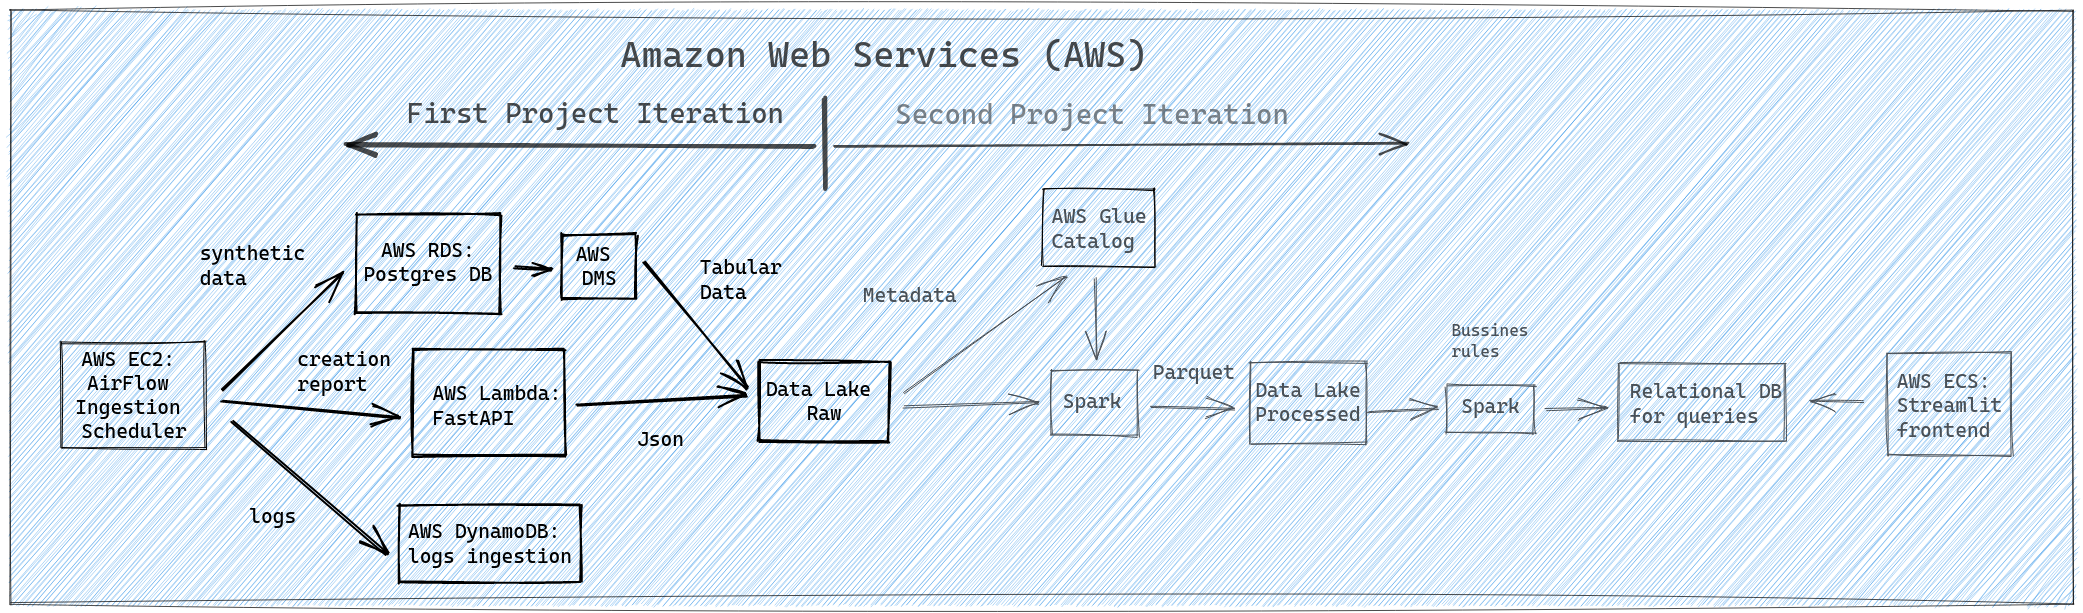
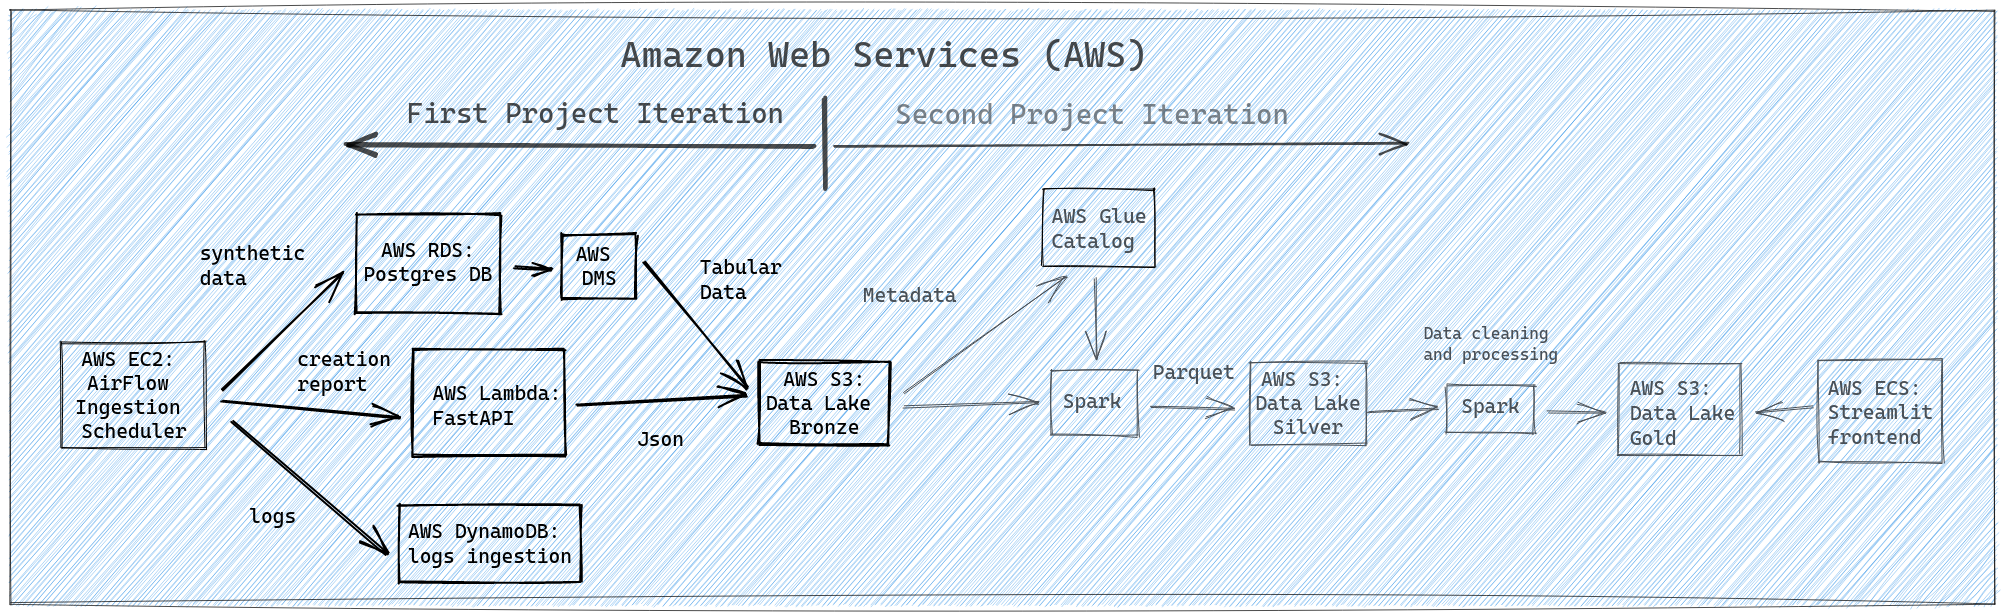
README and workflow image updated

diff --git a/README.md b/README.md
@@ -1,4 +1,109 @@
-UNDER CONSTRUCTION!!! 🛠👷🏼🧰⚒
+# **SITUATION**
 
-This repository will contain the code for a data engineering project regarding synthetic data ingestion...
+As a data scientist, I realized that it is fundamental to understand not only the data scientist tools but also the data engineering ones to deliver more value and more robust solutions to my projects. 
 
+So, my main idea with this project was to dive into data engineering fundamentals in both a theoretical and practical way.
+
+To maximize my understanding of data engineering, I created synthetic data ingestion in the AWS environment. The first iteration of this project was mainly concerned with data ingestion and gave me a first immersive contact with data engineering tools; the second iteration will improve the solutions of the first cycle and will complete the architecture by delivering an analytical dashboard.
+
+
+# **TASK**
+
+The idea is to create synthetic data regarding customer behaviour for two groups of customers: control and treatment. We would generate this behaviour with statistical distributions (e.g. Poisson and Gamma distributions) and would ingest both the created customer behaviour and the statistical distribution params in the architecture. The data would flow throughout the architecture, e.g. data ingestion layer, a bronze layer, a silver layer, etc.
+
+As the output, we would have the data regarding the customer behaviour and its statistical distribution blueprint. Then, we could use A/B testing tools to check if there is a statistically significant difference between the control and the treatment groups. However, once we know the original distribution of both groups, we know if they are different or not, so we will be able to check if the A/B tests would give us the correct result of not (especially regarding type I and type II errors).
+
+
+# **ACTION**
+
+1. *Create a local package with all the scripts necessary to simulate synthetic data for hypothetical customers.*
+2. *Make use of the Continuous Integration concepts to test all scripts and make sure they are working as expected*
+3. *Ingest the synthetic data on an AWS RDS database.*
+4. *Ingest the params that generated the synthetic data (e.g. lambda of Poisson distribution, shape and scale of Gamma distribution) in an AWS S3 bucket via an API (FastAPI as a lambda function in AWS Lambda)*
+5. *Save the logs of all intermediate steps regarding data creation and ingestion on a DynamoDB table*
+6. *Schedule the data ingestion workflow to run weekly using Airflow in AWS EC2 server*
+7. *Make sure the architecture is working in the cloud without any error/bug*
+
+## **Folder structure**
+
+- **.github**: code for GitHub actions integration (CI)
+- **airflow**: code used to deploy the Airflow scheduler on AWS EC2
+- **img**: project images
+- **lambda_api**: code used to create a FastAPI on AWS Lambda
+- **scripts**: scripts created for the project (none so far)
+- **synthetic_data_ingestion**: local package with all the scripts that generate the synthetic data and ingest it on their respective AWS service
+- **test**: code that tests the data ingestion through the local package.
+- **Makefile**: directives to the make automation tool.
+- **README.md**: project overview 
+- **requirements.txt**: required dependencies for the project.
+- **setup.py**: the code to set up the local package.
+
+
+# **RESULTS**
+
+The following image represents the original concept of this project:
+
+![data-architecture](img/data_architecture.png)
+
+Except for minor details, the first project iteration is over. In other words:
+
+- Airflow in AWS EC2 is working;
+
+- Postgress database in AWS RDS is working;
+
+- FastAPI in AWS Lambda is working;
+
+- AWS DynamoDB is working;
+
+- Data Lake Bronze in AWS S3 is working;
+
+All of these previous tools are working smoothly in the AWS cloud. 
+
+Besides, 97% of the python code used for this project passes the CI tests. 
+
+
+# **CONCLUSIONS**
+
+Even if you are a data scientist, understanding the fundamentals of data engineering:
+
+- makes it possible for your projects to deliver more valuable and robust solutions;
+
+- makes you a more independent data scientist (you can build your solutions if you don't have the support of data engineers);
+
+- makes you understand the workflow before the data is available to you;
+
+- makes it possible for you to contribute with better solutions for the data engineering team;
+
+- forces you to adopt coding best practices.
+
+# **LESSONS LEARNED**
+
+**How to decide the data architecture for a data engineering project.**
+
+**How to create a local python package for the project.**
+
+**How to use Continuous Integration tools to test the project code.**
+
+**How to ingest the synthetic data on an AWS RDS database.**
+
+**How to deploy an API with FastAPI and deploy it as a lambda function in AWS Lambda).**
+
+**How to ingest data on AWS S3 bucket via an intermediate API.**
+
+**How to ingest data on an AWS DynamoDB table.**
+
+**How to schedule a workflow using Airflow in AWS EC2 server.**
+
+**How to configure AWS to integrate services of the same project.** 
+
+# **NEXT STEPS TO IMPROVE**
+
+**CI**: expand tests to achieve 100% of coverage and check more edge cases.
+
+**Local Package**: revise the local package to make scripts more efficient in terms of computational resource use.
+
+**AWS DMS**: migrate the data from AWS RDS to the AWS S3 bucket with the AWS DMS.
+
+**AWS configuration**: revise policies and roles to increase the security of the architecture.
+
+**Second project iteration steps**: work on the steps after the Data Lake Bronze (from AWS Glue and Spark until Streamlit in AWS ECS)
